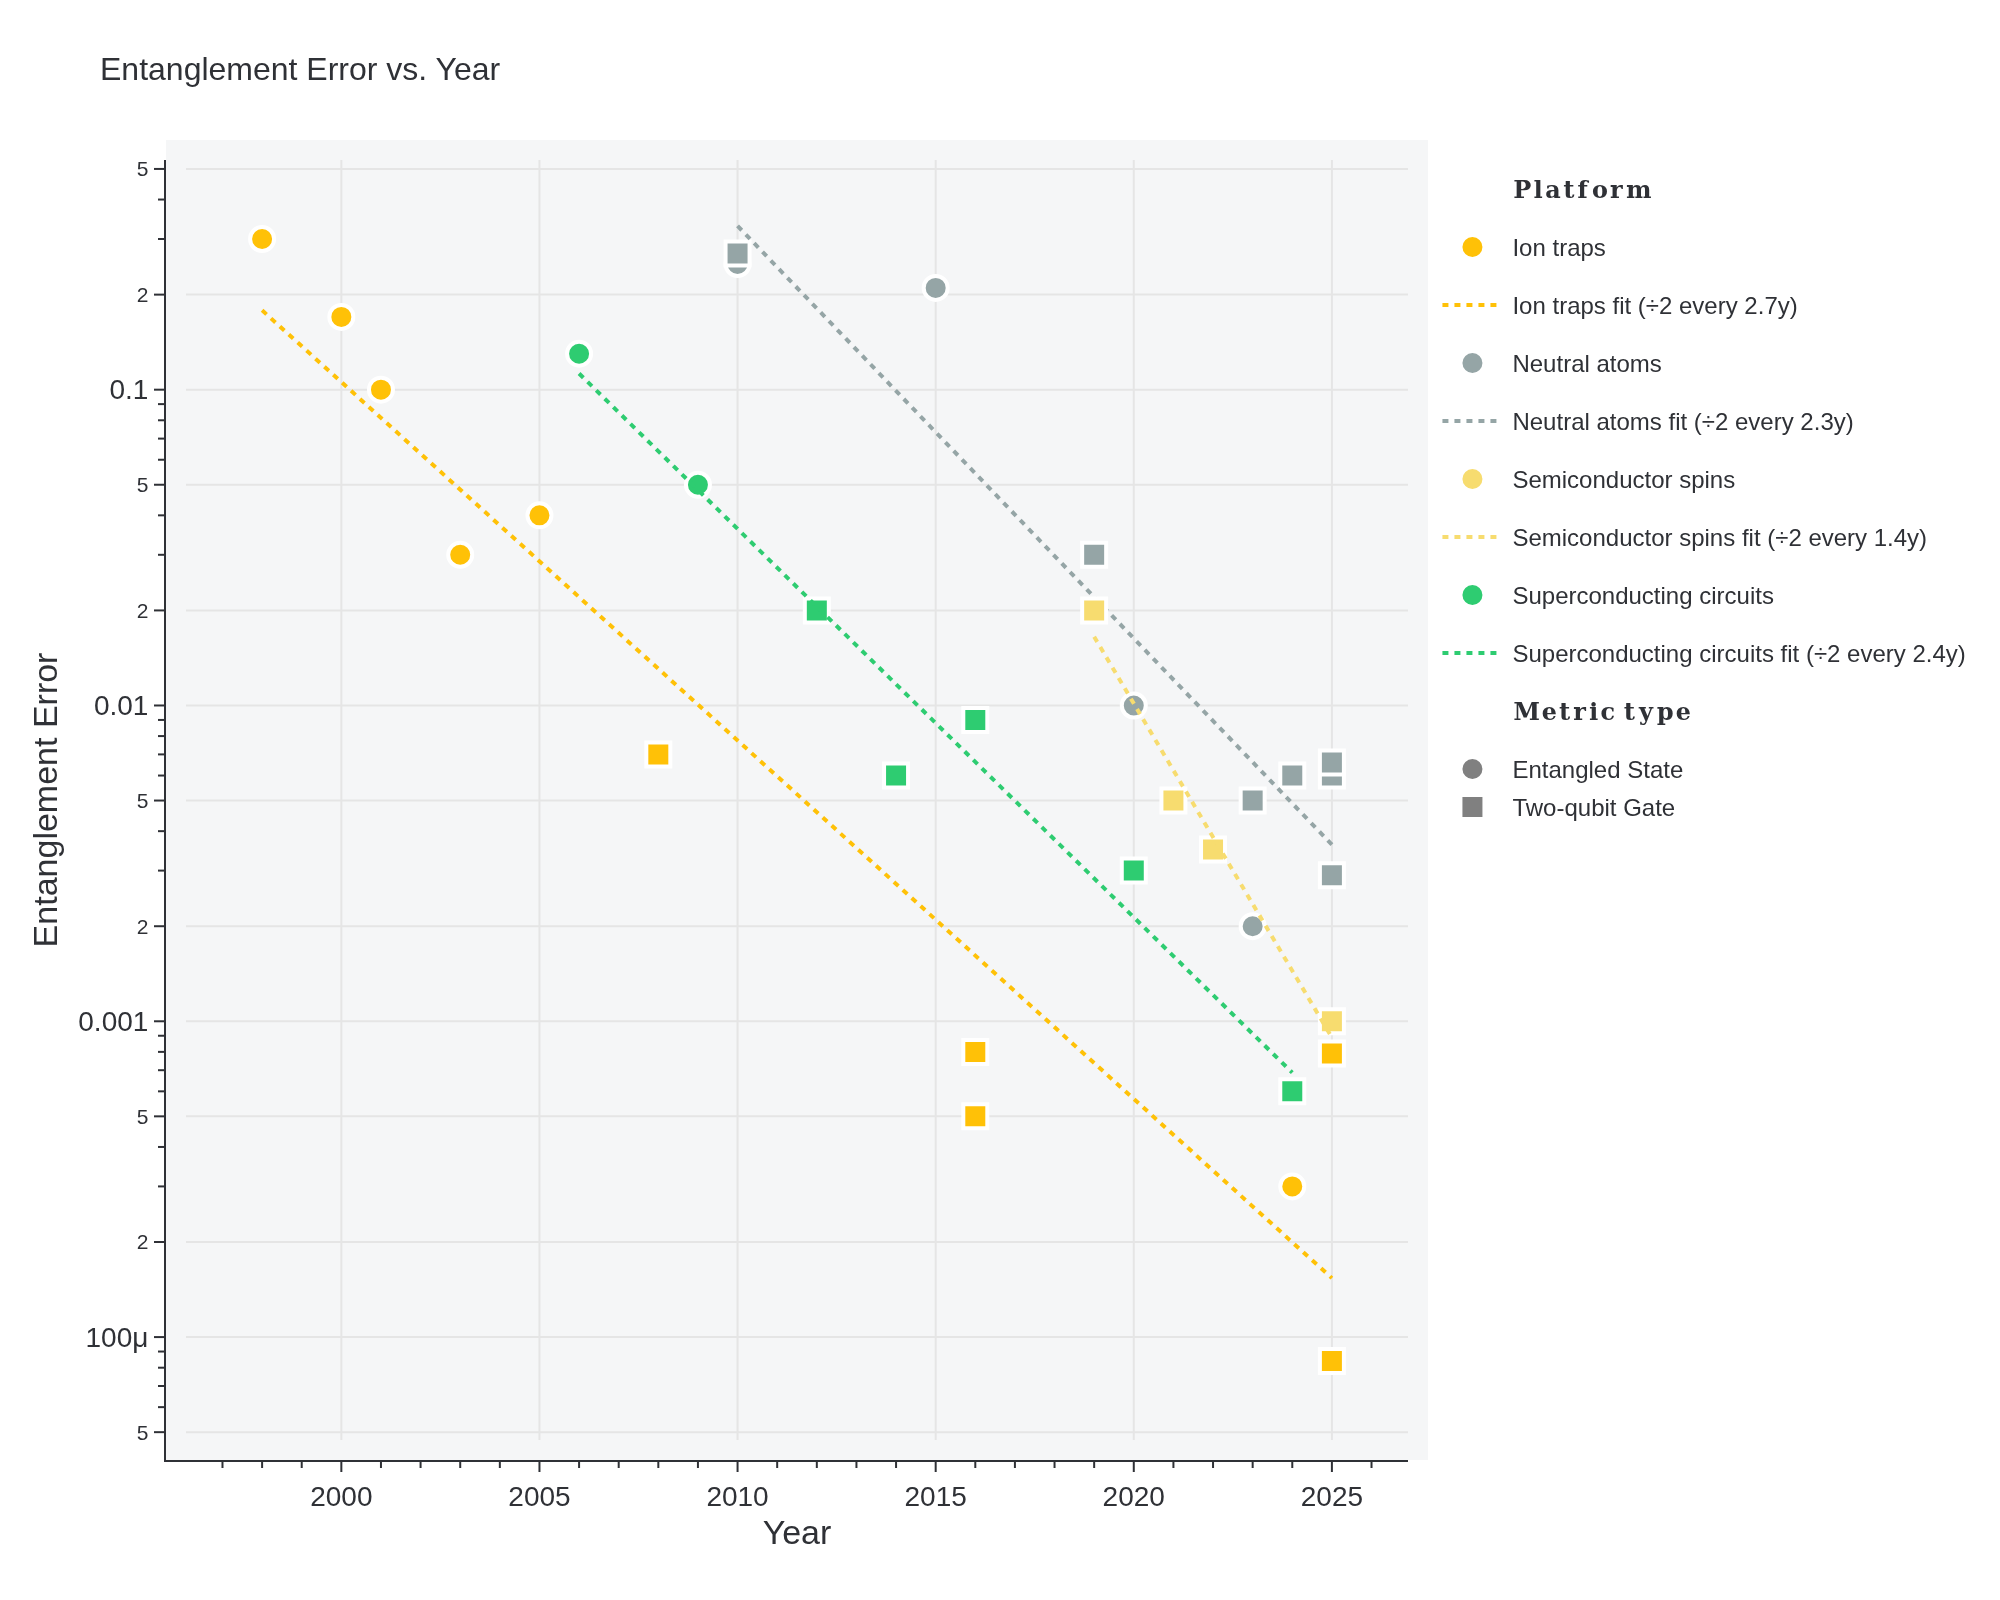
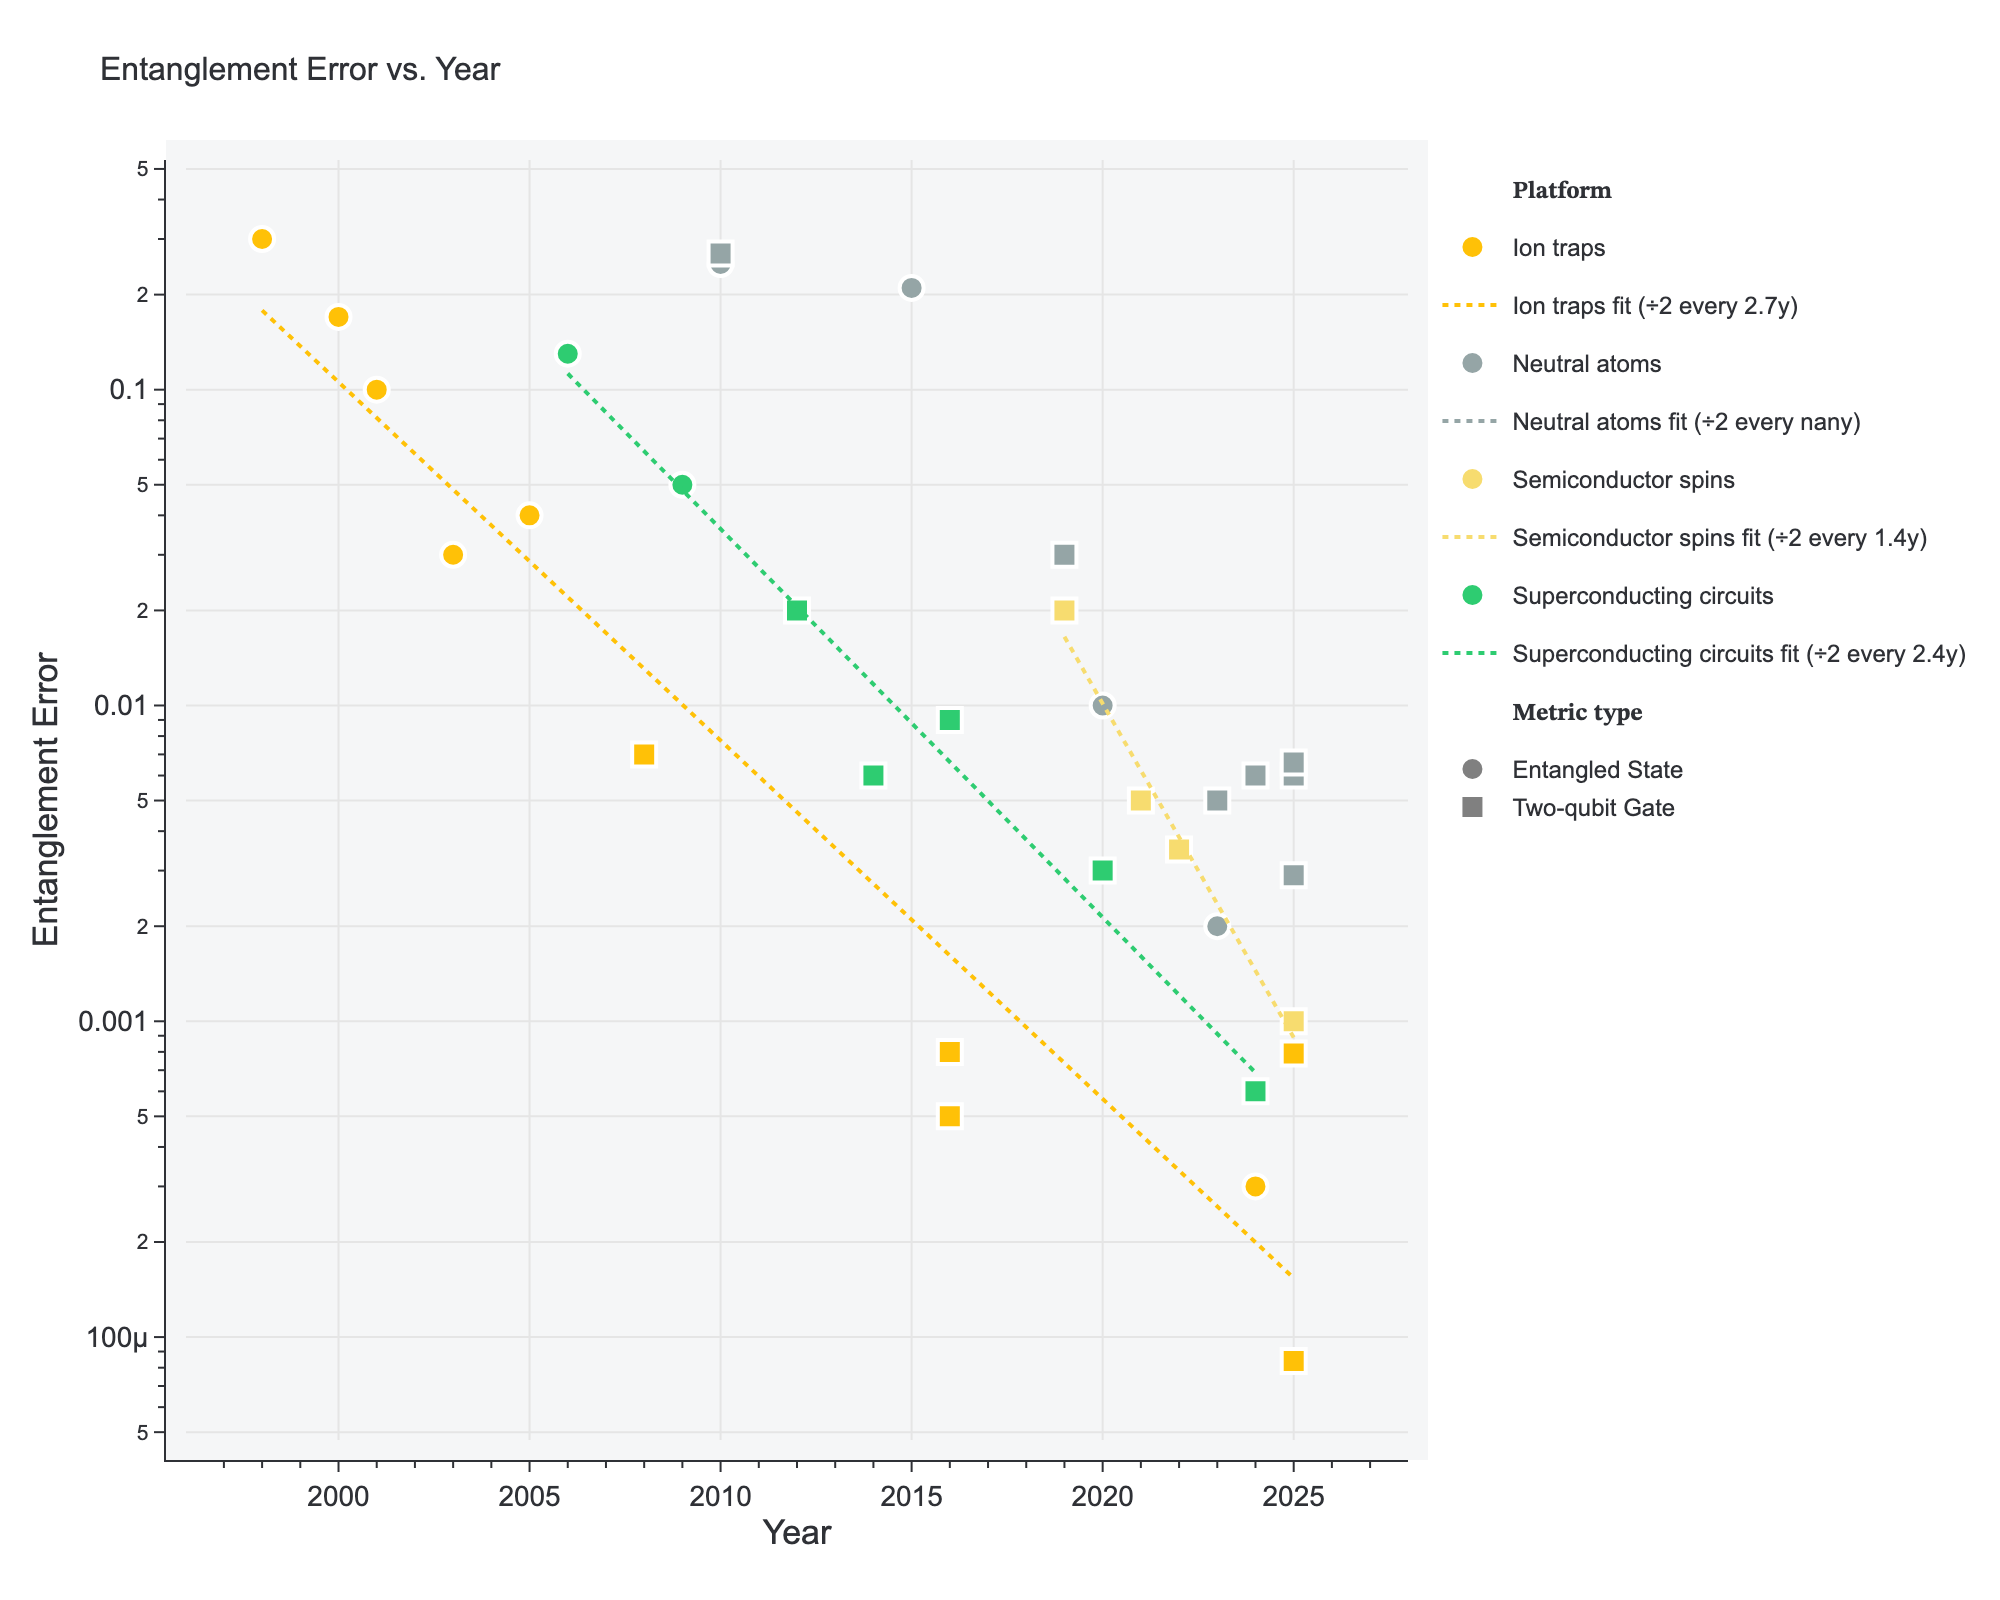
Update entangled_state_error_exp.csv (#559)
* Update entangled_state_error_exp.csv

* Regenerate README and entangled-error plot for new data point

Adds the neutral-atoms entangling-gate entry (arXiv:2604.25987) to the
rendered README and plot so they match the updated CSV. Keeps the new
README verify-gate green.

Pull request: Update entangled_state_error_exp.csv

diff --git a/README.md b/README.md
@@ -317,7 +317,7 @@ Magic states are crucial non-Clifford quantum states that enable universal fault
 - [High-fidelity quantum logic gates using trapped-ion hyperfine qubits](https://arxiv.org/abs/1512.04600) (2016) - 0.0008 on Ion traps, two-qubit gate error
 - [Scalable, high-fidelity all-electronic control of trapped-ion qubits](https://arxiv.org/abs/2407.07694) (2024) - 0.0003 on Ion traps, Two-qubit maximally entangled states
 - [Helios: A 98-qubit trapped-ion quantum computer](https://doi.org/10.48550/arXiv.2511.05465) (2025) - 0.00079 on Ion traps, 2.5(1)×10−5  for single-qubit gates, 7.9(2)×10−4 for two-qubit gates, and 4.8(6)×10−4 for state preparation and measurement
-- [Trapped-ion two-qubit gates with > 99.99% fidelity without ground-state cooling](https://doi.org/10.48550/arXiv.2510.17286) (2025) - 8.4e-05 on Ion traps, 8.4(7)e−5, without the use of ground-state cooling%. <=5e−4 for ions with average phonon occupation numbers of up to n = 9.4(3) on the gate mode
+- [Trapped-ion two-qubit gates with > 99.99% fidelity without ground-state cooling](https://doi.org/10.48550/arXiv.2510.17286) (2025) - 0.000084 on Ion traps, 8.4(7)e−5, without the use of ground-state cooling%. <=5e−4 for ions with average phonon occupation numbers of up to n = 9.4(3) on the gate mode
 
 ### Superconducting circuits
 
@@ -342,6 +342,7 @@ Magic states are crucial non-Clifford quantum states that enable universal fault
 - [A universal neutral-atom quantum computer with individual optical addressing and non-destructive readout](https://doi.org/10.48550/arXiv.2408.08288) (2025) - 0.0066 on Neutral atoms, Cs, CZ gate
 - [Benchmarking and Fidelity Response Theory of High-Fidelity Rydberg Entangling Gates](https://doi.org/10.1103/PRXQuantum.6.010331) (2025) - 0.0029 on Neutral atoms, Sr, CZ gate
 - [Spectroscopy and Modeling of 171Yb Rydberg States for High-Fidelity Two-Qubit Gates](https://doi.org/10.1103/PhysRevX.15.011009) (2025) - 0.006 on Neutral atoms, Yb, CZ gate
+- [High-fidelity entangling gates and nonlocal circuits with neutral atoms](https://arxiv.org/abs/2604.25987) (2026) - 0.00146(4) on Neutral atoms, Rb, CZ gate, 99.854(4)% raw / 99.941(3)% loss-postselected, stable >10h
 
 ### Semiconductor spins
 